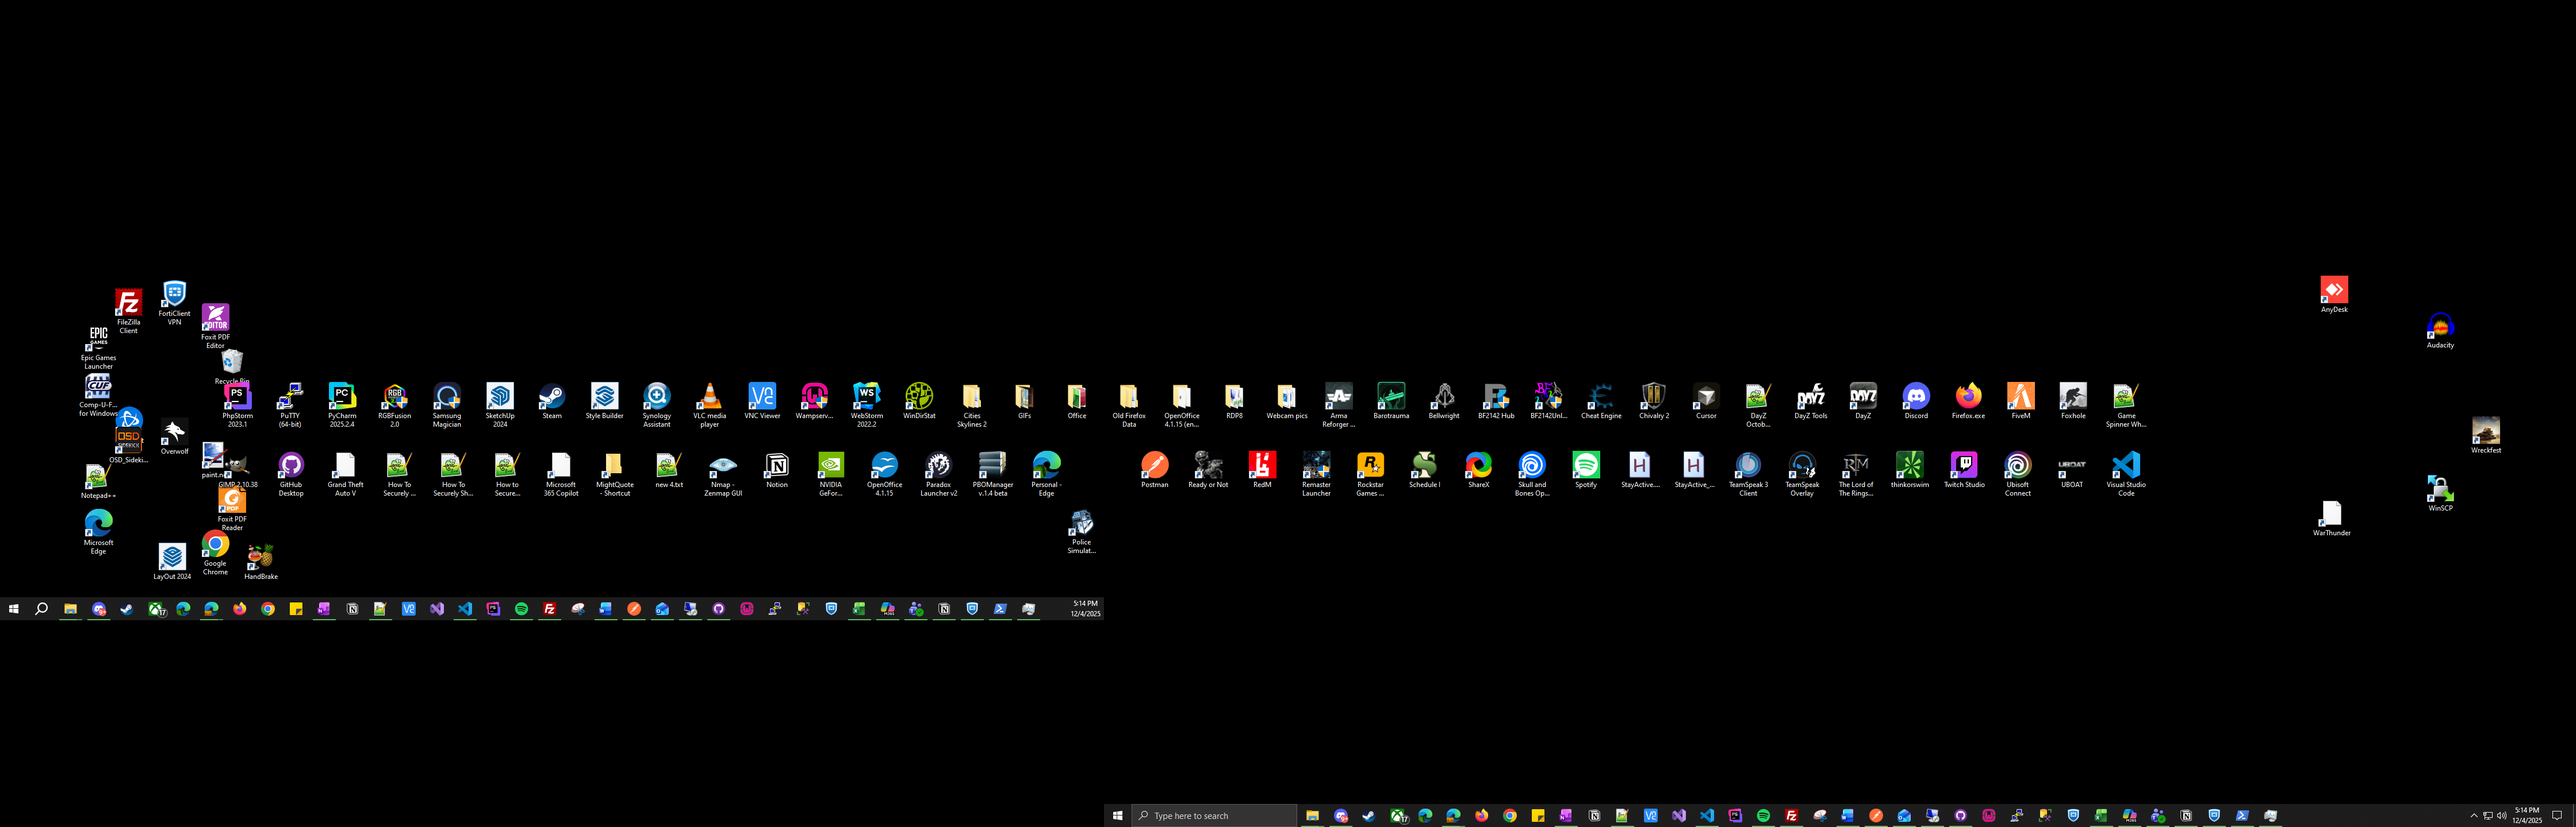
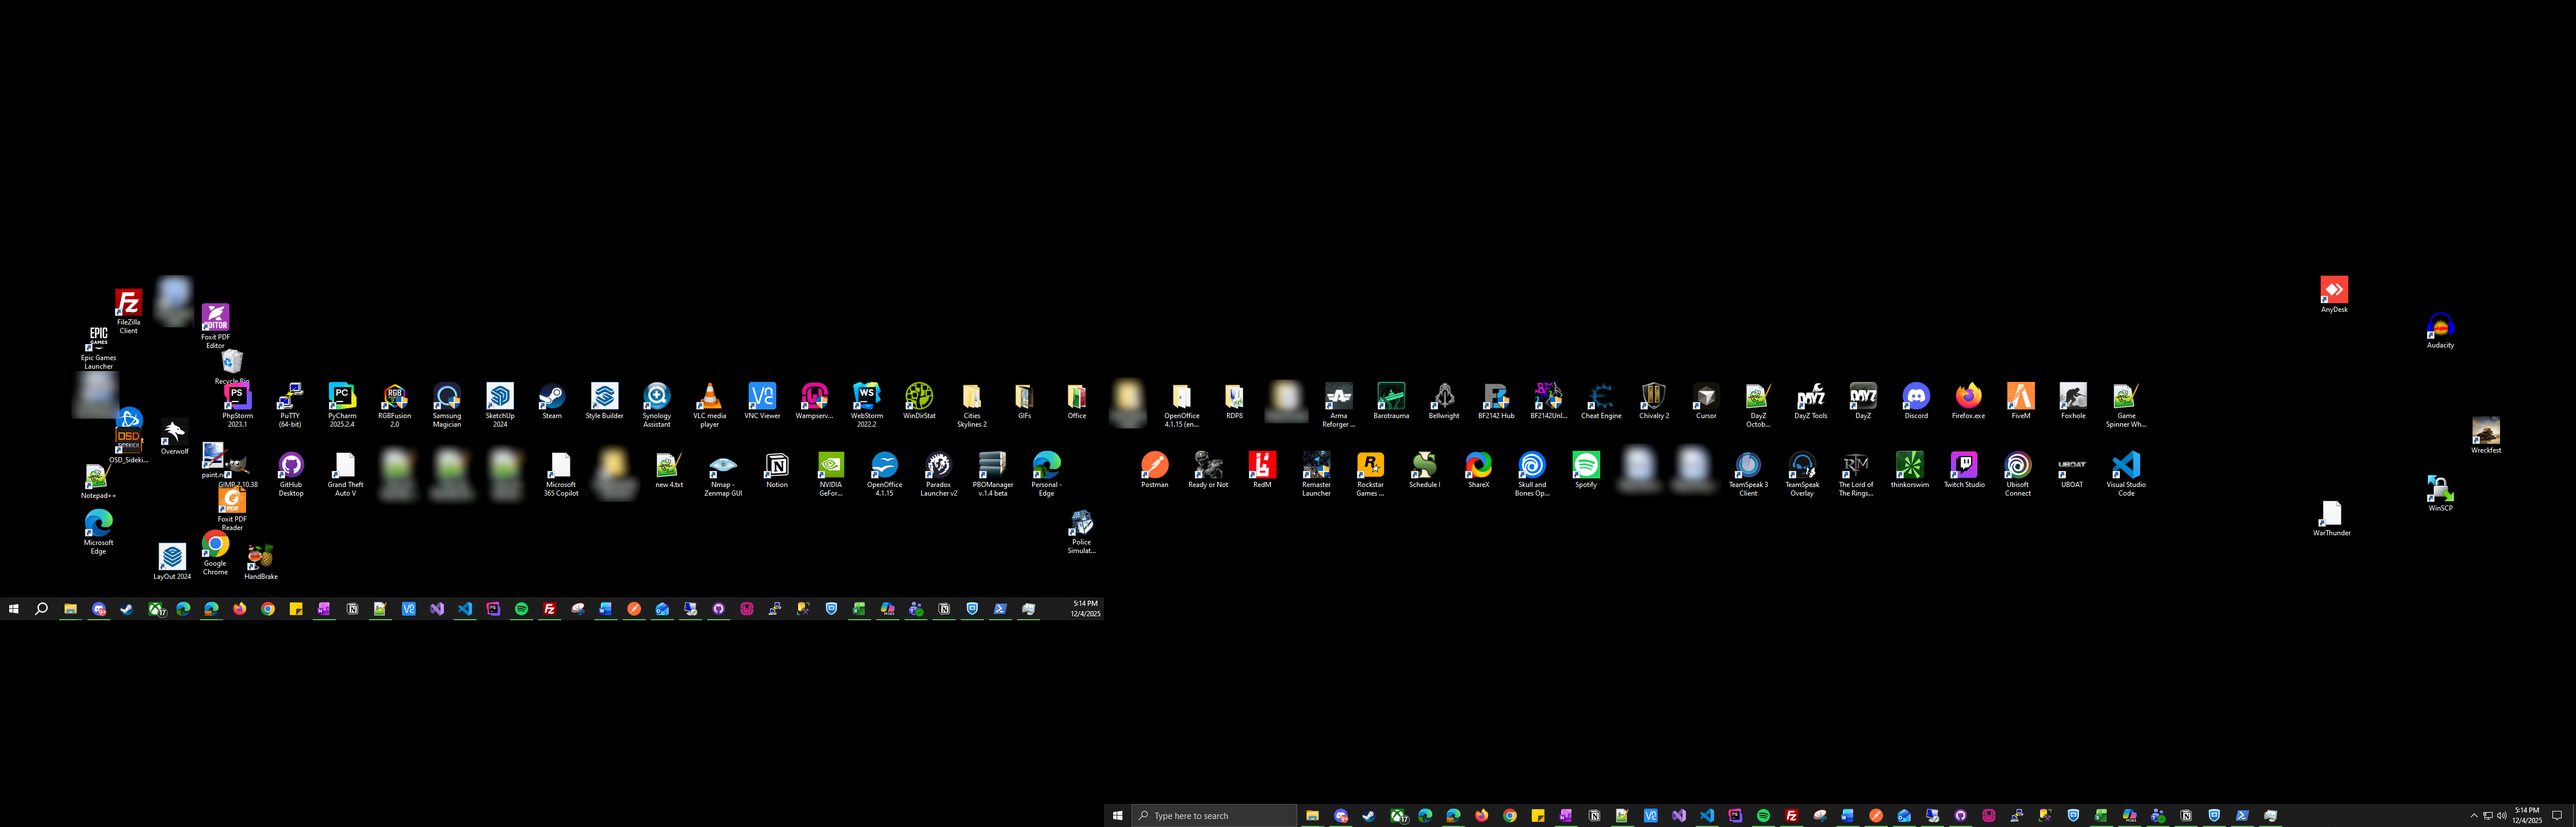
Update README with example image
Added a visual example of the desktop icon arrangement to the README for better clarity. Updated the Example.PNG image to reflect the latest arrangement.

diff --git a/README.md b/README.md
@@ -3,7 +3,9 @@
 **Penetrate the monotony of your Windows workspace.**
 
 SortBySchlong gives your Windows desktop icons a bit more… *structure.*  
-It organizes them into a tasteful, vertically oriented geometric arrangement inspired by the classic silhouette you’re probably imagining right now.
+It organizes them into a tasteful, vertically oriented geometric arrangement inspired by the classic silhouette you're probably imagining right now.
+
+![Example desktop icon arrangement](img/Example.png)
 
 Unlike traditional UI-driven applications, this tool operates quietly in the background and is intended to be triggered by:
 
